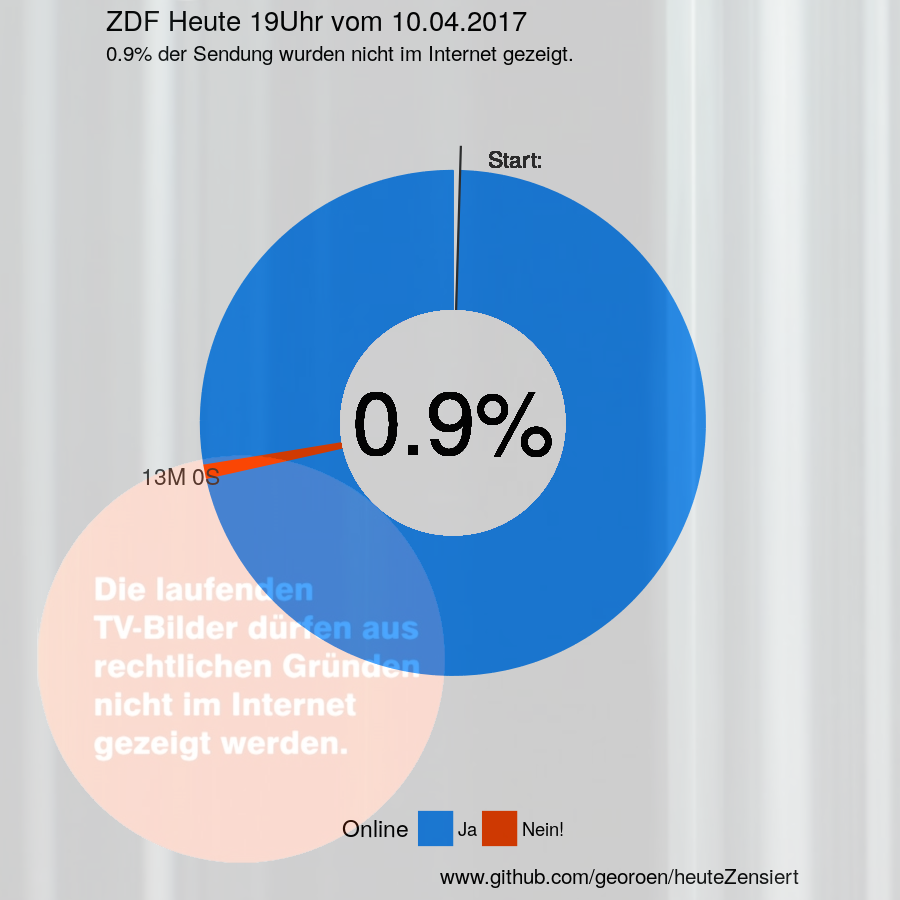
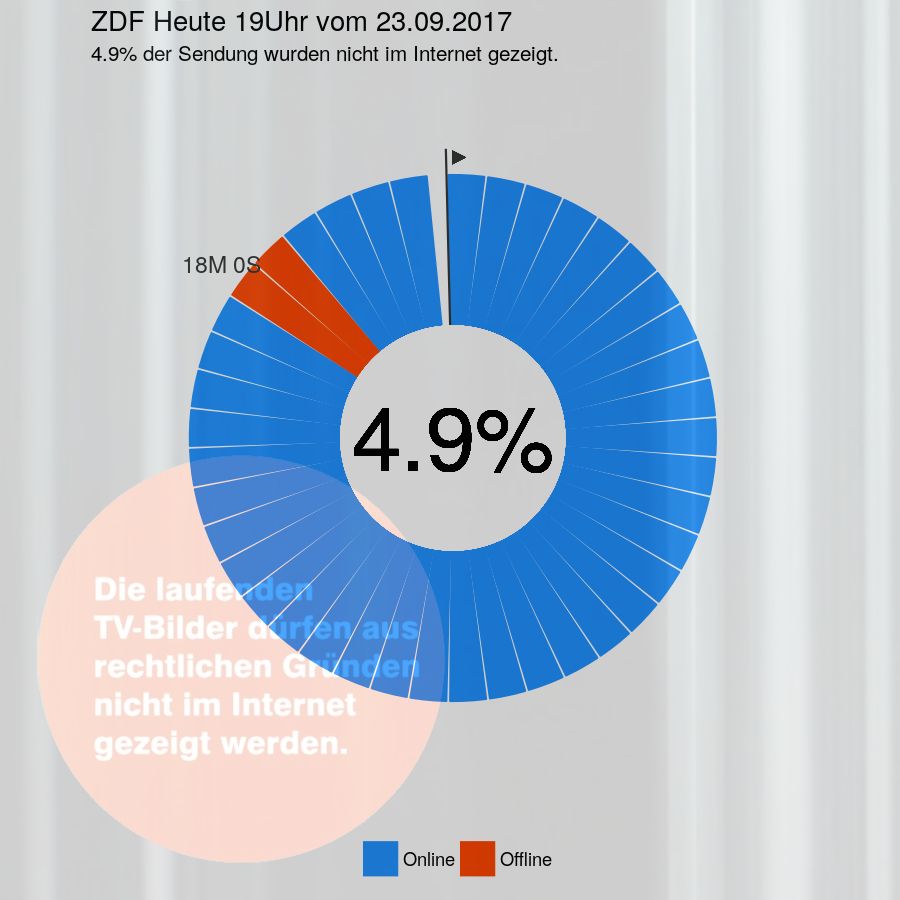
Logfile Bugfix

diff --git a/README.md b/README.md
@@ -1,13 +1,22 @@
 # heuteZensiert
 
-Seit der Einführung des neuen Rundfunkbeitrags am 1.1.2013, ehemals GEZ, zahlen deutsche Haushalte einen geräteunabhängigen Beitrag. TV und Internet wurden hier gleichgestellt. 
+Seit der Einführung des neuen Rundfunkbeitrags am 1.1.2013, ehemals GEZ, zahlen deutsche Haushalte einen geräteunabhängigen Beitrag. TV und Internet wurden hier gleichgestellt. Dieses Projekt beschäftigt sich mit Nachrichtensendungen von ARD unf ZDF im Speziellen. 
 
 > Die Angebote von ARD, ZDF und Deutschlandradio lassen sich heute auf verschiedenen Wegen empfangen – ob über Radio, Fernseher, Computer oder Smartphone.  
-> -- [Faktenblatt von www.rundfunkbeitrag.de](https://www.rundfunkbeitrag.de/e175/e224/Faktenblatt_zum_neuen_Rundfunkbeitrag.pdf)  
+> -- [Faktenblatt von www.rundfunkbeitrag.de](https://www.rundfunkbeitrag.de/e175/e224/Faktenblatt_zum_neuen_Rundfunkbeitrag.pdf) vom 29.11.2012 
 
-Viele Personen/Haushalte verzichten mittlerweile aus verschiedene Gründen auf ein Fernsehgerät und nutzen Mediatheken, online Streaming-Dienste usw., die das TV ersetzen. Obwohl sie für das öffentlich-rechtliche Fernsehen gleich viel zahlen, wie für die Nutzung eines Fernsehgerätes, stehen Ihnen online nicht die gleichen Inhalte zur Verfügung. Dieses Projekt beschäftigt sich mit Nachrichtensendungen des ZDF im Speziellen. Online werden Passagen aus der Berichterstattung ausgeschnitten, bzw. mit einem Standbild ("Die laufenden TV- Bilder dürfen aus rechtlichen Gründen nicht im Internet gezeigt werden") überschrieben. Die betroffenen Themenbereiche sind zumeist der Sportteil, aber auch andere Abschnitte können betroffen sein (z.B. eine Ansprache des Papstes oder Bilder zur Berichterstattung zum Erdbeben in Nepal). Welche Inhalte online verfügbar sind und welche nicht, ist für den Endnutzer nicht nachvollziehbar. Ich nehme an, dass es die von Dritten angekaufen Videosequenzen sind. Doch der Knackpunkt ist, wenn das ZDF unsere gemeinsamen Runfunkbeiträge an Dritte ausschüttet, müsste es sich für alle Beitragszahler gleichmäßig einsetzen. Verträge, welche lediglich die TV-Ausstrahulng zulassen, dürfen nicht abgeschlossen werden. TV und Online - wir zahlen das Gleiche, wir wollen das Gleiche sehen. Nur Mut ZDF...  
+Viele Personen/Haushalte verzichten aus diesem Grund auf ein Fernsehgerät und empfangen die Öffentlich-Rechtlichen wie Streaming-Dienste. Dort stehen jedoch nicht immer die gleichen Inhalte zur Verfügung wie im konventionellen Fernsehen. Online werden Passagen aus der Berichterstattung ausgeschnitten, bzw. mit einem Standbild überlagert. 
 
-![Bluescreen heute Zensiert](./heuteZensiert.jpg)  
+> "Kurze Unterbrechung - Die laufenden TV- Bilder dürfen aus rechtlichen Gründen nicht im Internet gezeigt werden"
+
+Die betroffenen Themenbereiche sind zumeist der Sportteil, aber auch andere Abschnitte können betroffen sein. Welche Inhalte online verfügbar sind und welche nicht, ist für den Endnutzer nicht nachvollziehbar. Es ist anzunehmen, dass es die von Dritten angekaufen Videosequenzen sind. Doch eigentlich müssten die Sender, wenn sie den neuen Rundfunkbeitrag verwenden, sich bei Verträge mit Dritten für alle Beitragszahler gleichmäßig einsetzen. Ausstrahlungsrechte, welche lediglich die TV-Ausstrahulng zulassen, dürften nicht abgeschlossen werden.
+
+# heuteStatistik
+Um den genauen Anteil der nicht ausgestrahlen Nachrichtensendungen zu erfassen, werden *heute 19Uhr*, *heute Journal* und *Tagesschau* von einem RaspberryPi angeschaut. Ein kleines *R* Programm erkennt mithilfe von [Texterkennungssoftware](https://github.com/ropensci/tesseract) die zensierten Frames. Anschließend veröffentlicht dieser [Twitter-Bot](https://twitter.com/di9Eizai) das Ergebnis.
+
+TV und Online - wir zahlen das Gleiche, wir wollen das Gleiche sehen.
+
+![Kuchendiagramm](./heuteStatisik.png)  
 
 Der etwas reißerische Begriff Zensur wurde mit Absicht gewählt.   
 1) Dem digitalen Nachrichtenschauer werden bewusst Inhalte vorenthalten. Da die Nachrichten online zeitgleich (oder gar später) ausgestrahlt werden, hat Letzterer keine Möglichkeit mehr, die zensierten Passagen im TV nachzuschauen.  
@@ -15,17 +24,18 @@ Der etwas reißerische Begriff Zensur wurde mit Absicht gewählt.
 3) Da einzelne eMails an `Zuschauerredaktion@zdf.de` leider keine sichtbaren Folgen nach sich ziehen, möchten die Initiatoren eine große Masse zu mobilisieren, um den Druck auf das ZDF zu erhöhen. Gleiche Leistung für gleichen Rundfunkbeitrag!  
 4) Ziel ist es datengetragene Krtik am ZDF zu üben, der resuliterende Datensatz ist frei verfügbar. 
 
-![Kuchendiagramm](./heuteStatisik.png)  
 
-## CRONTAB
-Jeden Tag werden die Nachrichten-Sendungen via RSS abgerufen und analyisiert. 50 Minuten Spielraum inklusive.
-https://de.wikipedia.org/wiki/Heute-journal#Sendeplatz  
+# heuteMitmachen
+Das Open-Source Projekt läd zum mitmachen ein. Neben den Tweets wird auch eine [Tabelle](Logfile.csv) fortgeschrieben. Ein wissenschaftliches Projekt könnte diese auf ihre Muster hin analysieren. Auch ließe sich das OCR auf weitere Bildauschnitte hin fokusieren (Name und Partei der Interviewten).
+
+Um das Programm zu installieren,  müssen folgende Dependencies erfüllt sein:  
+**Linux** `sudo apt install ffmpeg imagemagick libmagick++-dev libtesseract-dev libleptonica-dev tesseract-ocr-eng tesseract-ocr-deu`.  
+**R:** `jpeg`, `ggplot2`, `tibble`, `lubridate`, `stringr`, `imagick`, `tesseract`.
+
+Hier werden mit `CRONTAB` täglich die Nachrichten-Sendungen, 50 Minuten nach regulärer TV-Ausstrahlung, via RSS abgerufen.
 ```
-# 50 19 * * * cd ~/heuteZensiert/ && nohup Rscript --vanilla heuteZensiert.R h19 &
-# 50 20 * * * cd ~/heuteZensiert/ && nohup Rscript --vanilla heuteZensiert.R t20 &
-# 50 23 * * *  cd ~/heuteZensiert/ && nohup Rscript --vanilla heuteZensiert.R hjo &
+# 50 19 * * * cd ~/heuteZensiert/ && nohup Rscript --vanilla bin/heuteZensiert.R h19 &
+# 50 20 * * * cd ~/heuteZensiert/ && nohup Rscript --vanilla bin/heuteZensiert.R t20 &
+# 50 23 * * *  cd ~/heuteZensiert/ && nohup Rscript --vanilla bin/heuteZensiert.R hjo &
 ```
 
-## Dependencies
-Linux software `sudo apt install ffmpeg imagemagick libmagick++-dev libtesseract-dev libleptonica-dev tesseract-ocr-eng tesseract-ocr-deu`.  
-R libraries `jpeg`, `ggplot2`, `tibble`, `lubridate`, `stringr`, `imagick`, `tesseract`.
